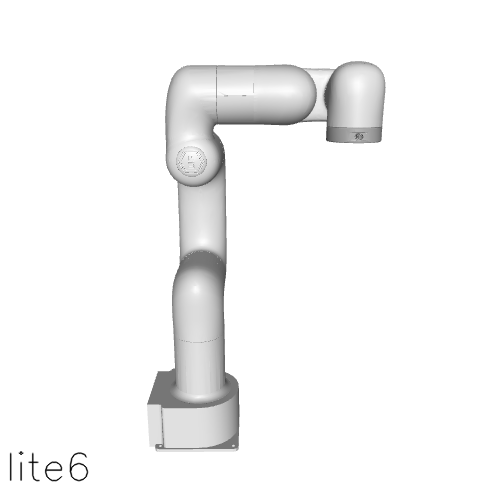
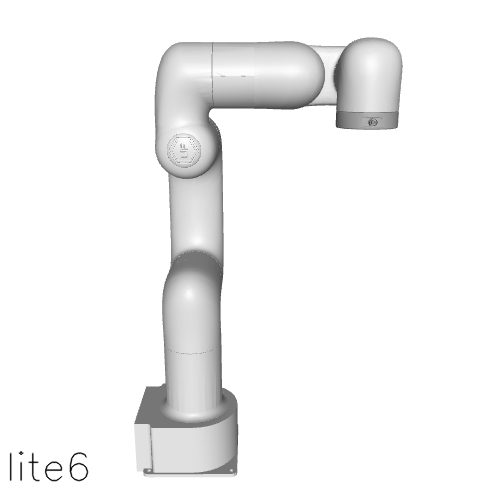
Sync.

Changed region(s): [[0.27, 0.06, 0.81, 0.96]]

diff --git a/generate_gallery.py b/generate_gallery.py
@@ -96,6 +96,8 @@ MODEL_MAP = {
     "unitree_go2/go2": ModelType.QUADRUPED,
 }
 
+DEFAULT_FOV = 40
+
 CAMERA_MAP = {
     "skydio_x2/x2": dict(
         pos="-0.580 -0.260 0.622",
@@ -112,138 +114,144 @@ CAMERA_MAP = {
         pos="0.002 0.043 0.432", xyaxes="0.052 -0.999 0.000 0.998 0.052 0.017"
     ),
     "ufactory_xarm7/xarm7": dict(
-        pos="0.852 -0.383 0.860", xyaxes="0.487 0.874 0.000 -0.354 0.197 0.914", fovy=50
+        pos="0.852 -0.383 0.860", xyaxes="0.487 0.874 0.000 -0.354 0.197 0.914", fovy=DEFAULT_FOV
     ),
     "ufactory_xarm7/hand": dict(
         pos="-0.282 0.013 0.118",
         xyaxes="-0.047 -0.999 0.000 0.160 -0.007 0.987",
-        fovy=50,
+        fovy=45,
     ),
     "shadow_hand/left_hand": dict(
-        pos="0.304 0.076 0.570",
-        xyaxes="-0.599 0.801 0.000 -0.785 -0.587 0.195",
-        fovy=50,
+        pos="0.172 0.005 0.615",
+        xyaxes="-0.508 -0.861 -0.000 0.861 -0.508 0.017",
+        fovy=45,
     ),
     "shadow_hand/right_hand": dict(
-        pos="0.304 0.076 0.570",
-        xyaxes="-0.599 0.801 0.000 -0.785 -0.587 0.195",
-        fovy=50,
+        pos="0.180 0.021 0.601",
+        xyaxes="-0.579 -0.816 -0.000 0.816 -0.578 0.017",
+        fovy=45,
     ),
     "franka_emika_panda/panda": dict(
         pos="0.412 1.106 0.849",
         xyaxes="-0.994 0.108 0.000 -0.040 -0.369 0.928",
-        fovy=50,
+        fovy=DEFAULT_FOV,
     ),
     "franka_emika_panda/hand": dict(
         pos="0.340 0.008 0.059",
         xyaxes="-0.023 1.000 0.000 -0.084 -0.002 0.996",
-        fovy=50,
+        fovy=DEFAULT_FOV,
     ),
     "kuka_iiwa_14/iiwa14": dict(
         pos="0.212 1.138 0.977",
         xyaxes="-1.000 0.027 0.000 -0.012 -0.441 0.898",
-        fovy=50,
-    ),
-    "robotis_op3/op3": dict(
-        pos="0.673 -0.024 0.447", xyaxes="0.035 0.999 0.000 -0.252 0.009 0.968", fovy=50
+        fovy=45,
     ),
     "ufactory_lite6/lite6": dict(
         pos="0.077 -0.778 0.528",
         xyaxes="1.000 -0.004 -0.000 0.001 0.274 0.962",
-        fovy=50,
+        fovy=45,
     ),
     "unitree_g1/g1": dict(
-        pos="1.083 -0.998 1.323",
-        xyaxes="0.686 0.728 -0.000 -0.296 0.279 0.914",
-        fovy=50,
+        pos="1.466 -0.082 1.271",
+        xyaxes="0.072 0.997 -0.000 -0.377 0.027 0.926",
+        fovy=45,
+    ),
+    "unitree_h1/h1": dict(
+        pos="2.098 0.006 1.893",
+        xyaxes="0.007 1.000 -0.000 -0.394 0.003 0.919",
+        fovy=45,
+    ),
+    "robotis_op3/op3": dict(
+        pos="0.673 -0.024 0.447", xyaxes="0.035 0.999 0.000 -0.252 0.009 0.968", fovy=45
     ),
     "universal_robots_ur5e/ur5e": dict(
         pos="0.603 1.012 0.595",
         xyaxes="-0.932 0.363 -0.000 -0.080 -0.206 0.975",
-        fovy=50,
+        fovy=DEFAULT_FOV,
     ),
     "universal_robots_ur10e/ur10e": dict(
         pos="1.286 -0.798 0.889",
         xyaxes="0.696 0.718 -0.000 -0.224 0.218 0.950",
-        fovy=50,
+        fovy=DEFAULT_FOV,
     ),
     "unitree_z1/z1": dict(
-        pos="0.305 -0.400 0.552", xyaxes="0.755 0.656 0.000 -0.359 0.413 0.837", fovy=50
-    ),
-    "unitree_h1/h1": dict(
-        pos="1.944 -0.828 1.894", xyaxes="0.415 0.910 0.000 -0.369 0.168 0.914", fovy=50
+        pos="0.305 -0.400 0.552", xyaxes="0.755 0.656 0.000 -0.359 0.413 0.837", fovy=DEFAULT_FOV
     ),
     "unitree_go2/go2": dict(
-        pos="0.753 -0.427 0.433", xyaxes="0.518 0.856 0.000 -0.284 0.172 0.943", fovy=50
+        pos="0.753 -0.427 0.433", xyaxes="0.518 0.856 0.000 -0.284 0.172 0.943", fovy=DEFAULT_FOV
     ),
     "unitree_go1/go1": dict(
         pos="0.679 -0.553 0.530",
         xyaxes="0.638 0.770 -0.000 -0.328 0.272 0.905",
-        fovy=50,
+        fovy=DEFAULT_FOV,
     ),
     "unitree_a1/a1": dict(
         pos="0.654 -0.564 0.536",
         xyaxes="0.676 0.737 -0.000 -0.327 0.299 0.896",
-        fovy=50,
+        fovy=DEFAULT_FOV,
     ),
     "trossen_vx300s/vx300s": dict(
         pos="0.583 0.317 0.549",
         xyaxes="-0.531 0.847 0.000 -0.434 -0.272 0.859",
-        fovy=50,
+        fovy=DEFAULT_FOV,
     ),
     "robotiq_2f85/2f85": dict(
         pos="-0.009 -0.251 0.107",
         xyaxes="0.999 -0.033 -0.000 0.005 0.150 0.989",
-        fovy=50,
+        fovy=45,
     ),
     "rethink_robotics_sawyer/sawyer": dict(
         pos="1.014 -0.494 0.876",
         xyaxes="0.555 0.832 -0.000 -0.372 0.248 0.895",
-        fovy=50,
+        fovy=DEFAULT_FOV,
     ),
     "realsense_d435i/d435i": dict(
         pos="-0.000 -0.002 0.128",
         xyaxes="1.000 -0.000 0.000 0.000 1.000 0.017",
-        fovy=50,
+        fovy=DEFAULT_FOV,
     ),
     "hello_robot_stretch/stretch": dict(
-        pos="1.394 -0.761 1.411",
-        xyaxes="0.491 0.871 -0.000 -0.318 0.179 0.931",
-        fovy=50,
+        pos="1.464 -0.514 1.439",
+        xyaxes="0.271 0.963 -0.000 -0.362 0.102 0.927",
+        fovy=45,
     ),
     "google_robot/robot": dict(
-        pos="2.049 -0.945 1.503", xyaxes="0.409 0.913 0.000 -0.222 0.099 0.970", fovy=50
+        pos="1.753 -0.231 1.305",
+        xyaxes="0.025 1.000 0.000 -0.306 0.008 0.952",
+        fovy=50,
     ),
     "google_barkour_vb/barkour_vb": dict(
         pos="0.887 0.338 0.565",
         xyaxes="-0.388 0.922 0.000 -0.460 -0.194 0.867",
-        fovy=50,
+        fovy=DEFAULT_FOV,
     ),
     "google_barkour_v0/barkour_v0": dict(
         pos="0.733 0.320 0.558",
         xyaxes="-0.416 0.909 -0.000 -0.441 -0.202 0.875",
-        fovy=50,
+        fovy=DEFAULT_FOV,
     ),
     "bitcraze_crazyflie_2/cf2": dict(
-        pos="0.037 -0.142 0.206", xyaxes="0.963 0.268 0.000 -0.167 0.599 0.783", fovy=50
+        pos="0.037 -0.142 0.206", xyaxes="0.963 0.268 0.000 -0.167 0.599 0.783", fovy=DEFAULT_FOV
     ),
     "anybotics_anymal_b/anymal_b": dict(
-        pos="0.930 -1.239 1.221", xyaxes="0.809 0.587 0.000 -0.308 0.424 0.852", fovy=50
+        pos="0.930 -1.239 1.221", xyaxes="0.809 0.587 0.000 -0.308 0.424 0.852", fovy=DEFAULT_FOV
     ),
     "anybotics_anymal_c/anymal_c": dict(
-        pos="1.423 -0.825 0.895", xyaxes="0.542 0.841 0.000 -0.286 0.184 0.940", fovy=50
+        pos="1.547 -0.577 0.941",
+        xyaxes="0.378 0.926 -0.000 -0.358 0.146 0.922",
+        fovy=45,
     ),
     "aloha/aloha": dict(
         pos="0.484 1.158 0.836",
         xyaxes="-0.939 0.345 -0.000 -0.162 -0.441 0.883",
-        fovy=50,
+        fovy=DEFAULT_FOV,
     ),
     "agility_cassie/cassie": dict(
-        pos="1.277 -1.122 1.053", xyaxes="0.655 0.756 0.000 -0.196 0.170 0.966", fovy=50
+        pos="1.277 -1.122 1.053", xyaxes="0.655 0.756 0.000 -0.196 0.170 0.966", fovy=DEFAULT_FOV
     ),
 }
 
-KEEP_LIGHT = ["go1", "a1", "op3", "aloha", "left_hand", "right_hand"]
+KEEP_LIGHT = ["go1", "a1", "op3", "aloha", "left_hand", "right_hand", "stretch"]
 
 
 def create_arena():

diff --git a/README.md b/README.md
@@ -24,14 +24,14 @@ powerful simulator like MuJoCo with many modeling options, it is easy to create
 provide the community with a curated library of well-designed models that work
 well right out of the gate.
 
-|<img src='gallery/kuka_iiwa_14-iiwa14.png' width=100>|<img src='gallery/ufactory_lite6-lite6.png' width=100>|<img src='gallery/franka_emika_panda-panda.png' width=100>|<img src='gallery/rethink_robotics_sawyer-sawyer.png' width=100>|<img src='gallery/universal_robots_ur10e-ur10e.png' width=100>|
+|<img src='assets/kuka_iiwa_14-iiwa14.png' width=100>|<img src='assets/ufactory_lite6-lite6.png' width=100>|<img src='assets/franka_emika_panda-panda.png' width=100>|<img src='assets/rethink_robotics_sawyer-sawyer.png' width=100>|<img src='assets/universal_robots_ur10e-ur10e.png' width=100>|
 | :---: | :---: | :---: | :---: | :---: |
-|<img src='gallery/universal_robots_ur5e-ur5e.png' width=100>|<img src='gallery/trossen_vx300s-vx300s.png' width=100>|<img src='gallery/ufactory_xarm7-xarm7.png' width=100>|<img src='gallery/unitree_z1-z1.png' width=100>|<img src='gallery/aloha-aloha.png' width=100>|
-|<img src='gallery/robotiq_2f85-2f85.png' width=100>|<img src='gallery/franka_emika_panda-hand.png' width=100>|<img src='gallery/ufactory_xarm7-hand.png' width=100>|<img src='gallery/wonik_allegro-left_hand.png' width=100>|<img src='gallery/shadow_hand-left_hand.png' width=100>|
-|<img src='gallery/wonik_allegro-right_hand.png' width=100>|<img src='gallery/shadow_hand-right_hand.png' width=100>|<img src='gallery/google_robot-robot.png' width=100>|<img src='gallery/hello_robot_stretch-stretch.png' width=100>|<img src='gallery/unitree_a1-a1.png' width=100>|
-|<img src='gallery/anybotics_anymal_b-anymal_b.png' width=100>|<img src='gallery/anybotics_anymal_c-anymal_c.png' width=100>|<img src='gallery/google_barkour_v0-barkour_v0.png' width=100>|<img src='gallery/google_barkour_vb-barkour_vb.png' width=100>|<img src='gallery/unitree_go1-go1.png' width=100>|
-|<img src='gallery/unitree_go2-go2.png' width=100>|<img src='gallery/agility_cassie-cassie.png' width=100>|<img src='gallery/unitree_g1-g1.png' width=100>|<img src='gallery/unitree_h1-h1.png' width=100>|<img src='gallery/robotis_op3-op3.png' width=100>|
-|<img src='gallery/bitcraze_crazyflie_2-cf2.png' width=100>|<img src='gallery/skydio_x2-x2.png' width=100>|<img src='gallery/flybody-fruitfly.png' width=100>|<img src='gallery/realsense_d435i-d435i.png' width=100>||
+|<img src='assets/universal_robots_ur5e-ur5e.png' width=100>|<img src='assets/trossen_vx300s-vx300s.png' width=100>|<img src='assets/ufactory_xarm7-xarm7.png' width=100>|<img src='assets/unitree_z1-z1.png' width=100>|<img src='assets/aloha-aloha.png' width=100>|
+|<img src='assets/robotiq_2f85-2f85.png' width=100>|<img src='assets/franka_emika_panda-hand.png' width=100>|<img src='assets/ufactory_xarm7-hand.png' width=100>|<img src='assets/wonik_allegro-left_hand.png' width=100>|<img src='assets/shadow_hand-left_hand.png' width=100>|
+|<img src='assets/wonik_allegro-right_hand.png' width=100>|<img src='assets/shadow_hand-right_hand.png' width=100>|<img src='assets/google_robot-robot.png' width=100>|<img src='assets/hello_robot_stretch-stretch.png' width=100>|<img src='assets/unitree_a1-a1.png' width=100>|
+|<img src='assets/anybotics_anymal_b-anymal_b.png' width=100>|<img src='assets/anybotics_anymal_c-anymal_c.png' width=100>|<img src='assets/google_barkour_v0-barkour_v0.png' width=100>|<img src='assets/google_barkour_vb-barkour_vb.png' width=100>|<img src='assets/unitree_go1-go1.png' width=100>|
+|<img src='assets/unitree_go2-go2.png' width=100>|<img src='assets/agility_cassie-cassie.png' width=100>|<img src='assets/unitree_g1-g1.png' width=100>|<img src='assets/unitree_h1-h1.png' width=100>|<img src='assets/robotis_op3-op3.png' width=100>|
+|<img src='assets/bitcraze_crazyflie_2-cf2.png' width=100>|<img src='assets/skydio_x2-x2.png' width=100>|<img src='assets/flybody-fruitfly.png' width=100>|<img src='assets/realsense_d435i-d435i.png' width=100>||
 
 - [Getting Started](#getting-started)
   - [Prerequisites](#prerequisites)
